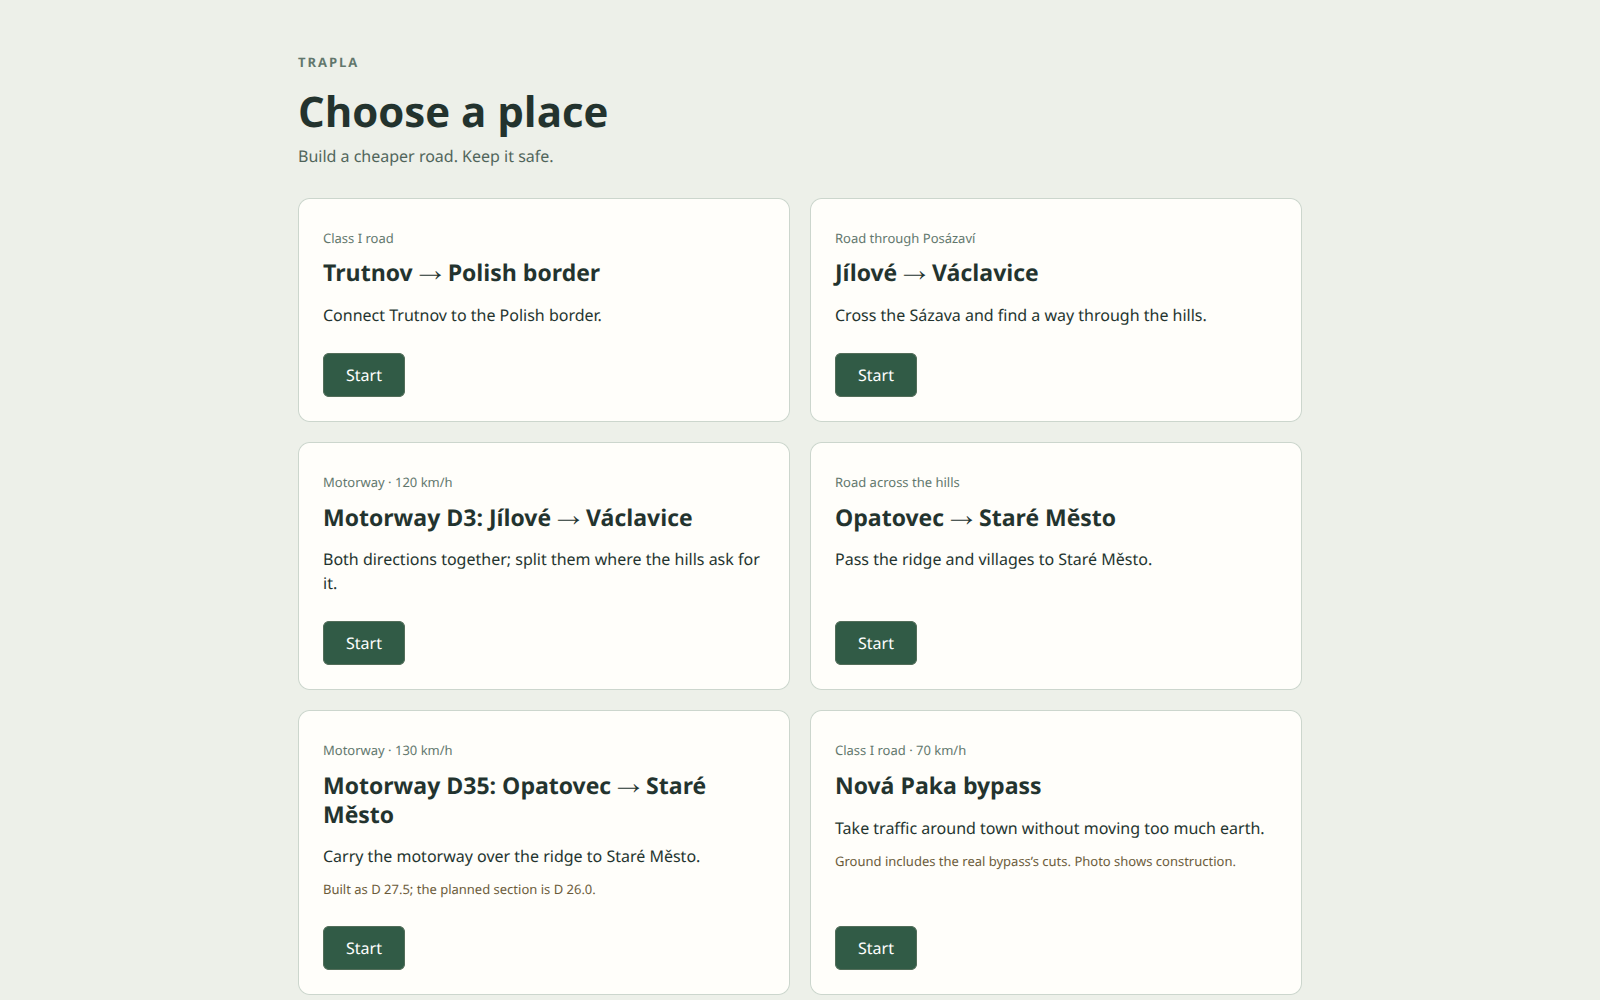
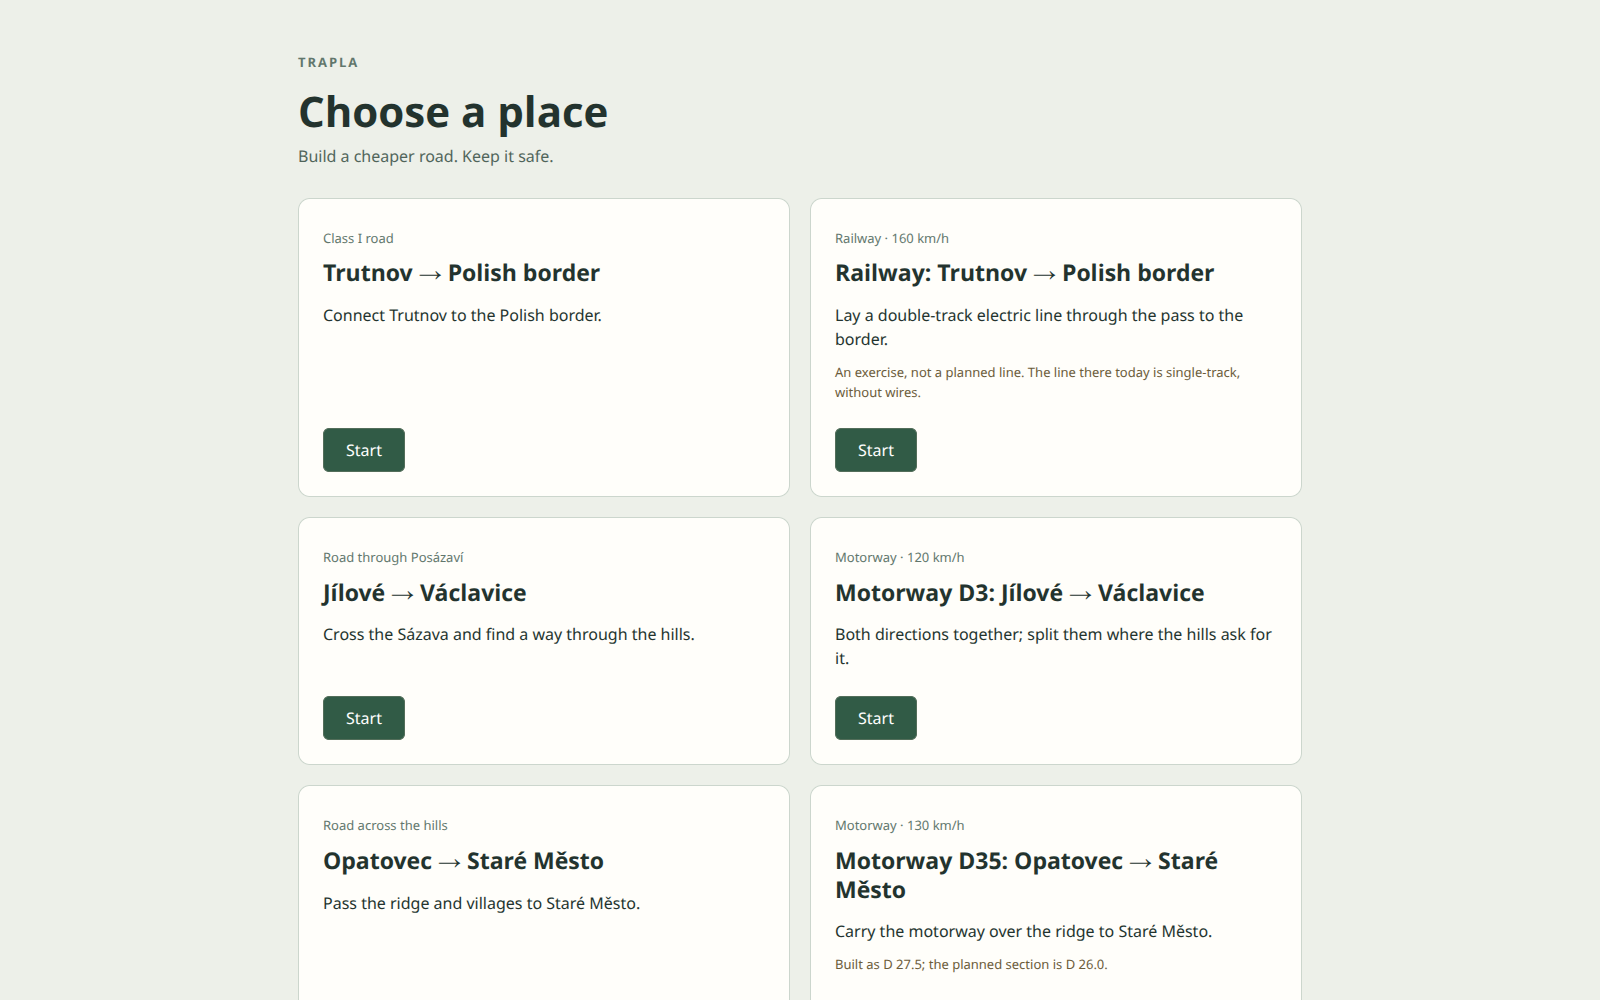
Railway mission preset d11-railway (honest exercise in the D11 pass): railway project between the mission ports, own saves and bests, goal in trains a day; profile grades in per mille and red above the category maximum; railway wording in legend/hint/height card; railway-shots, screenshots 136-139

Changed region(s): [[0.1875, 0.31, 0.8125, 1.0], [0.5312, 0.217, 0.75, 0.279], [0.6875, 0.372, 0.75, 0.403]]

diff --git a/src/main.ts b/src/main.ts
@@ -9,6 +9,7 @@ import { KIND } from './core/structures';
 import { NOISE, ROAD_CLASSES } from './core/data/urban';
 import { createRailNoiseModel } from './core/rail-noise';
 import { railTraffic } from './core/project-railway';
+import { createRailwayProject, railwayMission as railwayMissionOf } from './core/project-railway';
 import { CARRIAGEWAY_CATEGORY, corridorOfRoute, corridorOperations, createMotorwayProject, MOTORWAY_CATEGORY, motorwayMission as motorwayMissionOf, rejoinCorridor, splitCorridor } from './core/project-motorway';
 import { DIRECTIONS_TEXT } from './core/terms';
 import { RouteExtras } from './render/extras';
@@ -77,6 +78,8 @@ async function main() {
   document.getElementById('attrib')!.title = [document.getElementById('attrib')!.textContent,
     meta.baselineNote].filter(Boolean).join(' · ');
   document.getElementById('legend-official')!.textContent = scenario.labels.official;
+  document.getElementById('legend-route')!.textContent = scenario.mode ?? 'road';
+  if (scenario.mode === 'railway') document.getElementById('legend-height')!.textContent = 'track height';
   document.getElementById('legend-official')!.parentElement!.hidden = meta.official.xy.length < 2;
 
   const presetId = scenario.presetId ?? scenario.id;
@@ -88,16 +91,18 @@ async function main() {
   const positionA = legacyContext.endpoints.a.position, positionB = legacyContext.endpoints.b.position;
   // One deep-cloned scenario factory for first start AND Start over; existing saves never receive defaults.
   const initialRoad = (): Design => ({ ...startDesign(), ...structuredClone(scenario.initial ?? {}) });
-  const motorwayMission = scenario.mode === 'motorway';
+  const motorwayMission = scenario.mode === 'motorway', railwayMission = scenario.mode === 'railway';
+  // The mission ports come from the same legacy context; the corridor / railway then owns the alignment.
+  const roadBase = () => projectFromLegacyDesign({ ...startDesign(), category: 'S9.5', speed: 90 }, legacyContext);
   const initialProject = () => motorwayMission
-    // The mission ports come from the same legacy context; the corridor then owns the alignment.
-    ? createMotorwayProject(projectFromLegacyDesign({ ...startDesign(), category: 'S9.5', speed: 90 }, legacyContext), initialRoad(),
-      { aadt: scenario.traffic, heavyShare: scenario.heavyShare ?? NOISE.heavyShare })
+    ? createMotorwayProject(roadBase(), initialRoad(), { aadt: scenario.traffic, heavyShare: scenario.heavyShare ?? NOISE.heavyShare })
+    : railwayMission ? createRailwayProject(roadBase(), initialRoad())
     : projectFromLegacyDesign(initialRoad(), legacyContext);
   const openStore = () => openProjectStore({ storage, namespace: { scenarioId: scenario.id, presetId },
-    objectData, transportData, pricingData, mission: motorwayMission ? motorwayMissionOf(legacyContext.mission) : legacyContext.mission, initial: initialProject,
-    // Old single-road saves belong to the road exercise only, never to a motorway mission.
-    ...(motorwayMission ? {} : { legacy: { key: `trapla.${scenario.id}`, context: legacyContext, compatibleSemantics: scenario.id === 'd11' && presetId === 'd11' } }),
+    objectData, transportData, pricingData, initial: initialProject,
+    mission: motorwayMission ? motorwayMissionOf(legacyContext.mission) : railwayMission ? railwayMissionOf(legacyContext.mission) : legacyContext.mission,
+    // Old single-road saves belong to the road exercise only, never to a motorway or railway mission.
+    ...(motorwayMission || railwayMission ? {} : { legacy: { key: `trapla.${scenario.id}`, context: legacyContext, compatibleSemantics: scenario.id === 'd11' && presetId === 'd11' } }),
   });
   let opened: ReturnType<typeof openStore>;
   try { opened = openStore(); }
@@ -521,6 +526,8 @@ async function main() {
       view.clearDesign(activeEndpoints()); return;
     }
     revalidate(r, rd);
+    const cat = CATEGORIES[rd.category];
+    profile.setGradeRule({ max: cat.maxGradient?.[scenario.terrainClass] ?? scenario.maxGradient, perMille: cat.mode === 'railway' });
     profile.setResult(r, r.vpis, rd.structureOverrides, rd.gradePins, rd.wallOverrides);
     profile.setMode(rd.profileMode); document.getElementById('profile')!.classList.toggle('manual', rd.profileMode === 'manual');
     profile.setBends(bendStations(r, rd));

diff --git a/tests/railway-mode.test.ts b/tests/railway-mode.test.ts
@@ -2,7 +2,9 @@ import { describe, expect, it } from 'vitest';
 import { D11_SCENARIO } from '../src/core/data/scenario';
 import { evaluateProject, type ProjectEvalContext } from '../src/core/project-evaluate';
 import { legacyDesignForRoute, makeLegacyProjectContext, projectFromLegacyDesign, replaceRouteFromLegacy } from '../src/core/project-legacy';
-import { createRailwayRoute } from '../src/core/project-railway';
+import { createRailwayProject, createRailwayRoute, railwayMission } from '../src/core/project-railway';
+import { isScorableProject } from '../src/core/project-protocol';
+import { projectBindingsCurrent, type ProjectLoadOptions } from '../src/project-persistence';
 import { assertProjectDesign } from '../src/core/project-validation';
 import { railEverywherePerKm, railRouteBasePerKm } from '../src/core/data/railway';
 import { speedNorms } from '../src/core/data/norms';
@@ -23,7 +25,7 @@ function fixture() {
   const design = { ...base, routes: [...base.routes, rail] };
   const ctx: ProjectEvalContext = { legacy, environment: { objectData: 'objects', transportData: null,
     terrainData: 't', pricingData: 'p', waterData: 'w', terrainClass: 'hilly' } };
-  return { ctx, design, legacy };
+  return { ctx, design, legacy, base, context };
 }
 
 describe('railway mode', () => {
@@ -84,5 +86,22 @@ describe('railway noise (CNOSSOS-EU)', () => {
     expect(house).toBeDefined();
     expect(house.raw).toBeGreaterThan(0);
     expect(house.status === 'bought' || house.mitigated <= 0 || r.violations.some(v => v.kind === 'noise')).toBe(true);
+  });
+});
+
+describe('railway mission', () => {
+  it('replaces the mission road between the same ports, is priced as one bill and keeps its bests', () => {
+    const { ctx, base, context } = fixture();
+    const design = createRailwayProject(base, { category: 'R2', speed: 160, pis: [], profileMode: 'auto', vpis: [] });
+    assertProjectDesign(design);
+    expect(design.routes.map(r => [r.kind, r.role])).toEqual([['railway', 'mission']]);
+    expect(design.mission.connections[0].kinds).toEqual(['railway']);
+    const result = evaluateProject(ctx, { epoch: 'e', revision: 1, design });
+    expect(result.complete).toBe(true);
+    expect(result.cost.unpriced).toEqual([]);
+    expect(result.cost.total).toBe(result.routes['route:railway'].legacy!.cost.total);
+    expect(isScorableProject(result)).toBe(result.valid);
+    const options = { objectData: 'objects', transportData: null, mission: railwayMission(context.mission) } as ProjectLoadOptions;
+    expect(projectBindingsCurrent(design, options)).toBe(true);
   });
 });

diff --git a/src/ui/hud.ts b/src/ui/hud.ts
@@ -8,6 +8,7 @@ import type { CostBreakdown } from '../core/cost';
 import type { Design, Result } from '../core/evaluate';
 import type { ProjectResult, RouteId } from '../core/project';
 import { listProjectIssues, projectBadge, unpricedText, type ListedIssue } from './project-issues';
+import { RAIL_TRAINS_PER_DAY } from '../core/project-railway';
 import { CATEGORIES, PLAYABLE_CATEGORIES, type CategoryId } from '../core/data/categories';
 import { designSpeeds, speedNorms } from '../core/data/norms';
 import { DIRECTIONS_TEXT } from '../core/terms';
@@ -220,7 +221,7 @@ export class Hud {
           <p id="dir-explain" class="mode-explain"></p>
         </div>
         <div class="mode">
-          <div class="mode-h"><b>Road height</b><span class="q" id="mode-help" tabindex="0">?</span></div>
+          <div class="mode-h"><b id="height-h">Road height</b><span class="q" id="mode-help" tabindex="0">?</span></div>
           <div class="seg" role="radiogroup" aria-label="Road height">
             <button type="button" id="grade-auto" role="radio" title="The game picks the cheapest legal heights">Auto</button><button type="button" id="grade-manual" role="radio" title="Drag the height points yourself">By hand</button>
           </div>
@@ -243,6 +244,7 @@ export class Hud {
         <label class="exag">Relief <select id="exag"><option value="1">1×</option><option value="1.5">1.5×</option><option value="2">2×</option><option value="3">3×</option></select></label>`)}`;
     this.goalText = sc.mode === 'motorway'
       ? `Goal: cheapest valid motorway · ≤ ${sc.maxTravelMin.toFixed(1)} min · ${num(sc.traffic)} veh/day`
+      : sc.mode === 'railway' ? `Goal: cheapest valid railway · ≤ ${sc.maxTravelMin.toFixed(1)} min · ${num(RAIL_TRAINS_PER_DAY)} trains a day`
       : `Goal: cheapest valid road · ≤ ${sc.maxTravelMin.toFixed(1)} min · ${num(sc.traffic)} veh/day needs ≥ ${CATEGORIES[minCat].label.split(' (')[0]}`;
     this.context = this.$('context');
     this.decisions = this.$('decisions');
@@ -336,6 +338,7 @@ export class Hud {
       catSelect.disabled = types.length < 2;
       speedSelect.innerHTML = speeds.map((s) => `<option value="${s}">${s} km/h</option>`).join('');
       this.$('design-h').textContent = cat.mode === 'motorway' ? 'Motorway' : cat.mode === 'railway' ? 'Railway' : 'Road';
+      this.$('height-h').textContent = cat.mode === 'railway' ? 'Track height' : 'Road height';
     }
     catSelect.value = d.category;
     speedSelect.value = String(d.speed);

diff --git a/src/core/data/scenario.ts b/src/core/data/scenario.ts
@@ -37,8 +37,9 @@ export interface ScenarioParams {
   title: string;
   /** Stable mission/preset identity, separate from the terrain pack id. Legacy D11 uses d11. */
   presetId?: string;
-  /** What the mission builds: a road (default) or a paired motorway corridor (core/project-motorway.ts). */
-  mode?: 'road' | 'motorway';
+  /** What the mission builds: a road (default), a paired motorway corridor (core/project-motorway.ts) or a
+   * railway (core/project-railway.ts). */
+  mode?: 'road' | 'motorway' | 'railway';
   /** Fresh designs only; loading an existing design must never overwrite its specification. */
   initial?: { category: CategoryId; speed: number; pis?: PI[] };
   /** Short catalogue copy; D3/D35 road exercises are not motorway demand forecasts. */
@@ -143,8 +144,19 @@ export const D35_MOTORWAY: ScenarioParams = {
   picker: { kind: 'Motorway · 130 km/h', goal: 'Carry the motorway over the ridge to Staré Město.', note: 'Built as D 27.5; the planned section is D 26.0.' },
   ...MOTORWAY_TRAFFIC, maxTravelMin: 8.3, // 18 km at 130 (project section 16.6 km)
 };
+// Railway exercise in the D11 pass, between the road mission's ports (own saves). Not a planned project:
+// the line through the pass today is single-track and not electrified (OSM tags in the pack's transport
+// data: tracks=1, electrified=no, maxspeed 40–100). Trains: the PROVISIONAL prior of rail-noise.ts (128 a
+// day). Time target: a mission choice, 9 min = 24 km at 160 km/h or 21 km at 140 (A–B 18.6 km in a line).
+export const D11_RAILWAY: ScenarioParams = {
+  ...D11_SCENARIO, presetId: 'd11-railway', mode: 'railway', title: 'Railway: Trutnov → Polish border',
+  initial: { category: 'R2', speed: 160 },
+  picker: { kind: 'Railway · 160 km/h', goal: 'Lay a double-track electric line through the pass to the border.',
+    note: 'An exercise, not a planned line. The line there today is single-track, without wires.' },
+  maxTravelMin: 9,
+};
 /** Every playable mission, in picker order. */
-export const PRESETS: ScenarioParams[] = [D11_SCENARIO, D3_SCENARIO, D3_MOTORWAY, D35_SCENARIO, D35_MOTORWAY, NOVA_PAKA_SCENARIO];
+export const PRESETS: ScenarioParams[] = [D11_SCENARIO, D11_RAILWAY, D3_SCENARIO, D3_MOTORWAY, D35_SCENARIO, D35_MOTORWAY, NOVA_PAKA_SCENARIO];
 
 /** Game parameters per scenario id (= terrain pack directory). Preset IDs scope new project saves.
  * D11 intentionally retains its exact legacy parameters and default. */

diff --git a/index.html b/index.html
@@ -14,7 +14,7 @@
         <div id="editbar"></div>
         <div id="viewbar"></div>
         <div id="legend">
-          <span><i style="background:#ffb000"></i>road</span>
+          <span><i style="background:#ffb000"></i><span id="legend-route">road</span></span>
           <span><i style="background:#2f8fff"></i>bridge</span>
           <span><i style="background:#a070ff"></i>tunnel</span>
           <span><i class="wall"></i>noise wall</span>
@@ -28,7 +28,7 @@
       </div>
       <div id="profile">
         <div class="profile-bar"><b title="The road's height from A (left) to B (right), the cost per metre below">Profile</b>
-          <span class="legend"><span><i class="sw ground"></i>ground</span><span><i class="sw road"></i>road height</span><span class="lg-hp"><i class="sw hp"></i>height point</span><span><i class="sw fill"></i>embankment</span><span><i class="sw cut"></i>cut</span><span><i class="sw br"></i>bridge</span><span><i class="sw tn"></i>tunnel</span></span>
+          <span class="legend"><span><i class="sw ground"></i>ground</span><span><i class="sw road"></i><span id="legend-height">road height</span></span><span class="lg-hp"><i class="sw hp"></i>height point</span><span><i class="sw fill"></i>embankment</span><span><i class="sw cut"></i>cut</span><span><i class="sw br"></i>bridge</span><span><i class="sw tn"></i>tunnel</span></span>
           <button id="key-toggle" class="key-toggle" aria-expanded="false" aria-controls="profile-key" title="What the marks and colours mean">Key ▾</button>
           <span class="zoom" role="group" aria-label="Profile zoom"><button id="fit" title="Zoom out to the whole route" hidden>⤢ Whole route</button><button id="zoom-out" title="Zoom out (or the mouse wheel)">−</button><button id="zoom-in" title="Zoom in (or the mouse wheel)">+</button></span></div>
         <div id="profile-key" class="profile-key" hidden>

diff --git a/src/core/project-railway.ts b/src/core/project-railway.ts
@@ -49,6 +49,23 @@ export function createRailwayRoute(id: string, name: string, endpoints: Endpoint
       operations: { ...RAIL_TRAFFIC_PRIOR, passengerSpeed: speed, freightSpeed: 100 } } };
 }
 
+/** The scenario's mission made by a railway: same ports and time target; demand = the prior's trains. */
+export const RAIL_TRAINS_PER_DAY = RAIL_TRAFFIC_PRIOR.passengerDay + RAIL_TRAFFIC_PRIOR.passengerNight + RAIL_TRAFFIC_PRIOR.freightDay + RAIL_TRAFFIC_PRIOR.freightNight;
+export function railwayMission(mission: ProjectDesign['mission']): ProjectDesign['mission'] {
+  const trainsPerDay = RAIL_TRAINS_PER_DAY;
+  return { ...structuredClone(mission), connections: mission.connections.map(c => ({ ...c, kinds: ['railway'] as RouteDesign['kind'][],
+    demand: { kind: 'railway' as const, trainsPerDay } })) };
+}
+
+/** A fresh railway mission: the base project's mission road becomes a railway between the same ports. */
+export function createRailwayProject(base: ProjectDesign, d: Design): ProjectDesign {
+  const mission = base.routes.find(r => r.role === 'mission');
+  if (!mission) throw new Error('Mission route needed');
+  if (d.category !== 'R1' && d.category !== 'R2') throw new Error('A railway needs the R1 or R2 category');
+  const rail: RailwayRoute = { ...createRailwayRoute('route:railway', 'Railway', mission.endpoints, d.category === 'R1' ? 1 : 2, d.speed), role: 'mission' };
+  return replaceRailwayFromDesign({ ...structuredClone(base), routes: [rail], corridors: [], connections: [], mission: railwayMission(base.mission) }, rail.id, d);
+}
+
 /** The route's trains as noise groups (both directions, PROVISIONAL compositions in rail-noise.ts). */
 export function railTraffic(route: RailwayRoute): RailTrafficGroup[] {
   const o = route.specification.operations;

diff --git a/src/ui/profile.ts b/src/ui/profile.ts
@@ -138,6 +138,9 @@ export class ProfilePanel {
     this.tip.style.display = 'none'; this.draw();
   }
 
+  /** the steepest slope the shown route's category allows (labels above it are red); tracks in per mille */
+  private gradeRule = { max: 0.06, perMille: false };
+  setGradeRule(rule: { max: number; perMille: boolean }) { this.gradeRule = rule; }
   setResult(r: Result, vpis: VPI[], overrides: readonly StructureOverride[] = [], pins: readonly { s: number; z: number }[] = [], walls: readonly WallOverride[] = []) {
     this.overrides = overrides;
     this.pins = pins;
@@ -522,13 +525,15 @@ export class ProfilePanel {
     g.font = '11px system-ui, sans-serif';
     g.fillStyle = '#333';
     g.textAlign = 'center';
+    // the category's steepest slope (the scenarios' road value 6 % otherwise); track grades in per mille
+    const { max: maxGrade, perMille: rail } = this.gradeRule;
     for (let k = 0; k < this.vpis.length - 1; k++) {
       const a = this.X(this.vpis[k].s), b = this.X(this.vpis[k + 1].s);
       if (b - a < 46 || b < L || a > R) continue;
       const gr = r.grades[k] ?? 0;
       const ym = this.Y((this.vpis[k].z + this.vpis[k + 1].z) / 2);
-      g.fillStyle = Math.abs(gr) > 0.06 + 1e-6 ? '#d00' : '#333';
-      g.fillText(`${(gr * 100).toFixed(1)} %`, (a + b) / 2, ym - 8);
+      g.fillStyle = Math.abs(gr) > maxGrade + 1e-6 ? '#d00' : '#333';
+      g.fillText(rail ? `${(gr * 1000).toFixed(1)} ‰` : `${(gr * 100).toFixed(1)} %`, (a + b) / 2, ym - 8);
     }
     // Requested pin elevations are drawn separately from the realised grade, including failures.
     for (const pin of this.pins) {

diff --git a/src/ui/inspector.ts b/src/ui/inspector.ts
@@ -215,7 +215,7 @@ export class Inspector {
     const top = topPieces(r, 5);
     return `<div class="ctx-h"><b>Where ${this.oneDirection ? 'this direction’s' : 'the'} money goes</b></div>
       <ol class="money">${top.map((p) => `<li><button type="button" class="link" data-piece="${p.s0},${p.s1},${p.kind}"><i class="pk-${p.kind}"></i>${PIECE_NAME[p.kind]} <small>km ${km(p.s0)}–${km(p.s1)}</small><span>${czk(p.cost)}</span></button></li>`).join('')}</ol>
-      <div class="sub hint">Drag the road to bend it. Click anything to inspect it.</div>`;
+      <div class="sub hint">Drag the ${this.d && CATEGORIES[this.d.category].mode === 'railway' ? 'railway' : 'road'} to bend it. Click anything to inspect it.</div>`;
   }
 
   // ---- a piece of road / a dragged stretch ----

diff --git a/README.md b/README.md
@@ -218,6 +218,15 @@ Motorway card) splits the directions; [one direction bent on its own](docs/scree
 keeps its height points on their ground and runs as one body with the other wherever they still meet.
 "Both directions" joins them again. Reproduce with `node scripts/motorway-shots.mjs d3 --docs 130`.
 
+### Railway (cost model 20)
+
+"Railway: Trutnov → Polish border" is an exercise in the D11 pass, not a planned line (the line there today is
+single-track and not electrified): a double-track electric line at up to 160 km/h between the same ends,
+slopes ≤ 12.5 ‰ (shown in ‰ in the profile), no level crossings, CNOSSOS train noise.
+[Overview](docs/screenshots/136-railway-overview.png), [double track in a cut](docs/screenshots/137-railway-track.png),
+[viaduct over Trutnov](docs/screenshots/138-railway-viaduct.png), [tunnel portal](docs/screenshots/139-railway-portal.png).
+Reproduce with `node scripts/railway-shots.mjs --docs 136`.
+
 ### Several roads (foundation, not priced together yet)
 
 | A second road: our road keeps its own price, the other is not priced yet | Change road: Start and End along a mapped road |

diff --git a/PLAN.md b/PLAN.md
@@ -241,6 +241,12 @@ What exists (details and commands in `README.md`):
   height point and made both directions clash downstream); motorway bests are kept (the store was keyed by the
   road mission). Drag budget holds on D3 motorway, paired and split (`drag-perf --scenario d3 --preset
   d3-motorway [--split forward]`).
+- Railway mission (preset `d11-railway`, screenshots 136–139): the D11 ports joined by an R1/R2 railway, an
+  honest exercise (OSM: today's line is tracks=1, electrified=no); trains = the PROVISIONAL prior (128 a day);
+  time target 9 min is a mission choice. Straight starter VALID at 27.9 bn CZK; perf design
+  `scripts/scenarios/d11/d11-railway.json` 25.4 bn CZK. Drag budget holds in all five modes.
+- "By hand" seeds every grade break of the automatic profile; on roads and motorways that is a point every
+  ≈ 250 m, each a real break (≥ 0.25 % on D11 best and the D3 motorway), so nothing is thinned.
 
 ### Travel-time target X and traffic Y
 

diff --git a/docs/mode-foundations.md b/docs/mode-foundations.md
@@ -216,6 +216,10 @@ store keyed by the motorway mission (bests were never kept), split cost card say
 main at a2bd5a6 (crossing-links, detmath): cost model **20**, fixture re-stamped after checking the diff was
 the version alone; motorway/rail noise uses detmath.
 
+Then: railway mission preset `d11-railway` (`createRailwayProject`, `railwayMission`; profile grades in ‰ and
+red above the category's own maximum; legend / hint / "Track height" wording), screenshots 136–139,
+`scripts/railway-shots.mjs`. Split "By hand" density checked: same as roads (every auto grade break, each real).
+
 Pending, in order:
 1. **Build flow** (any-road-editing, not merged yet): hook Build → Motorway (`createMotorwayProject`-like
    corridor creation at picked ends; non-port ends stay unpriced) and Build → Railway
